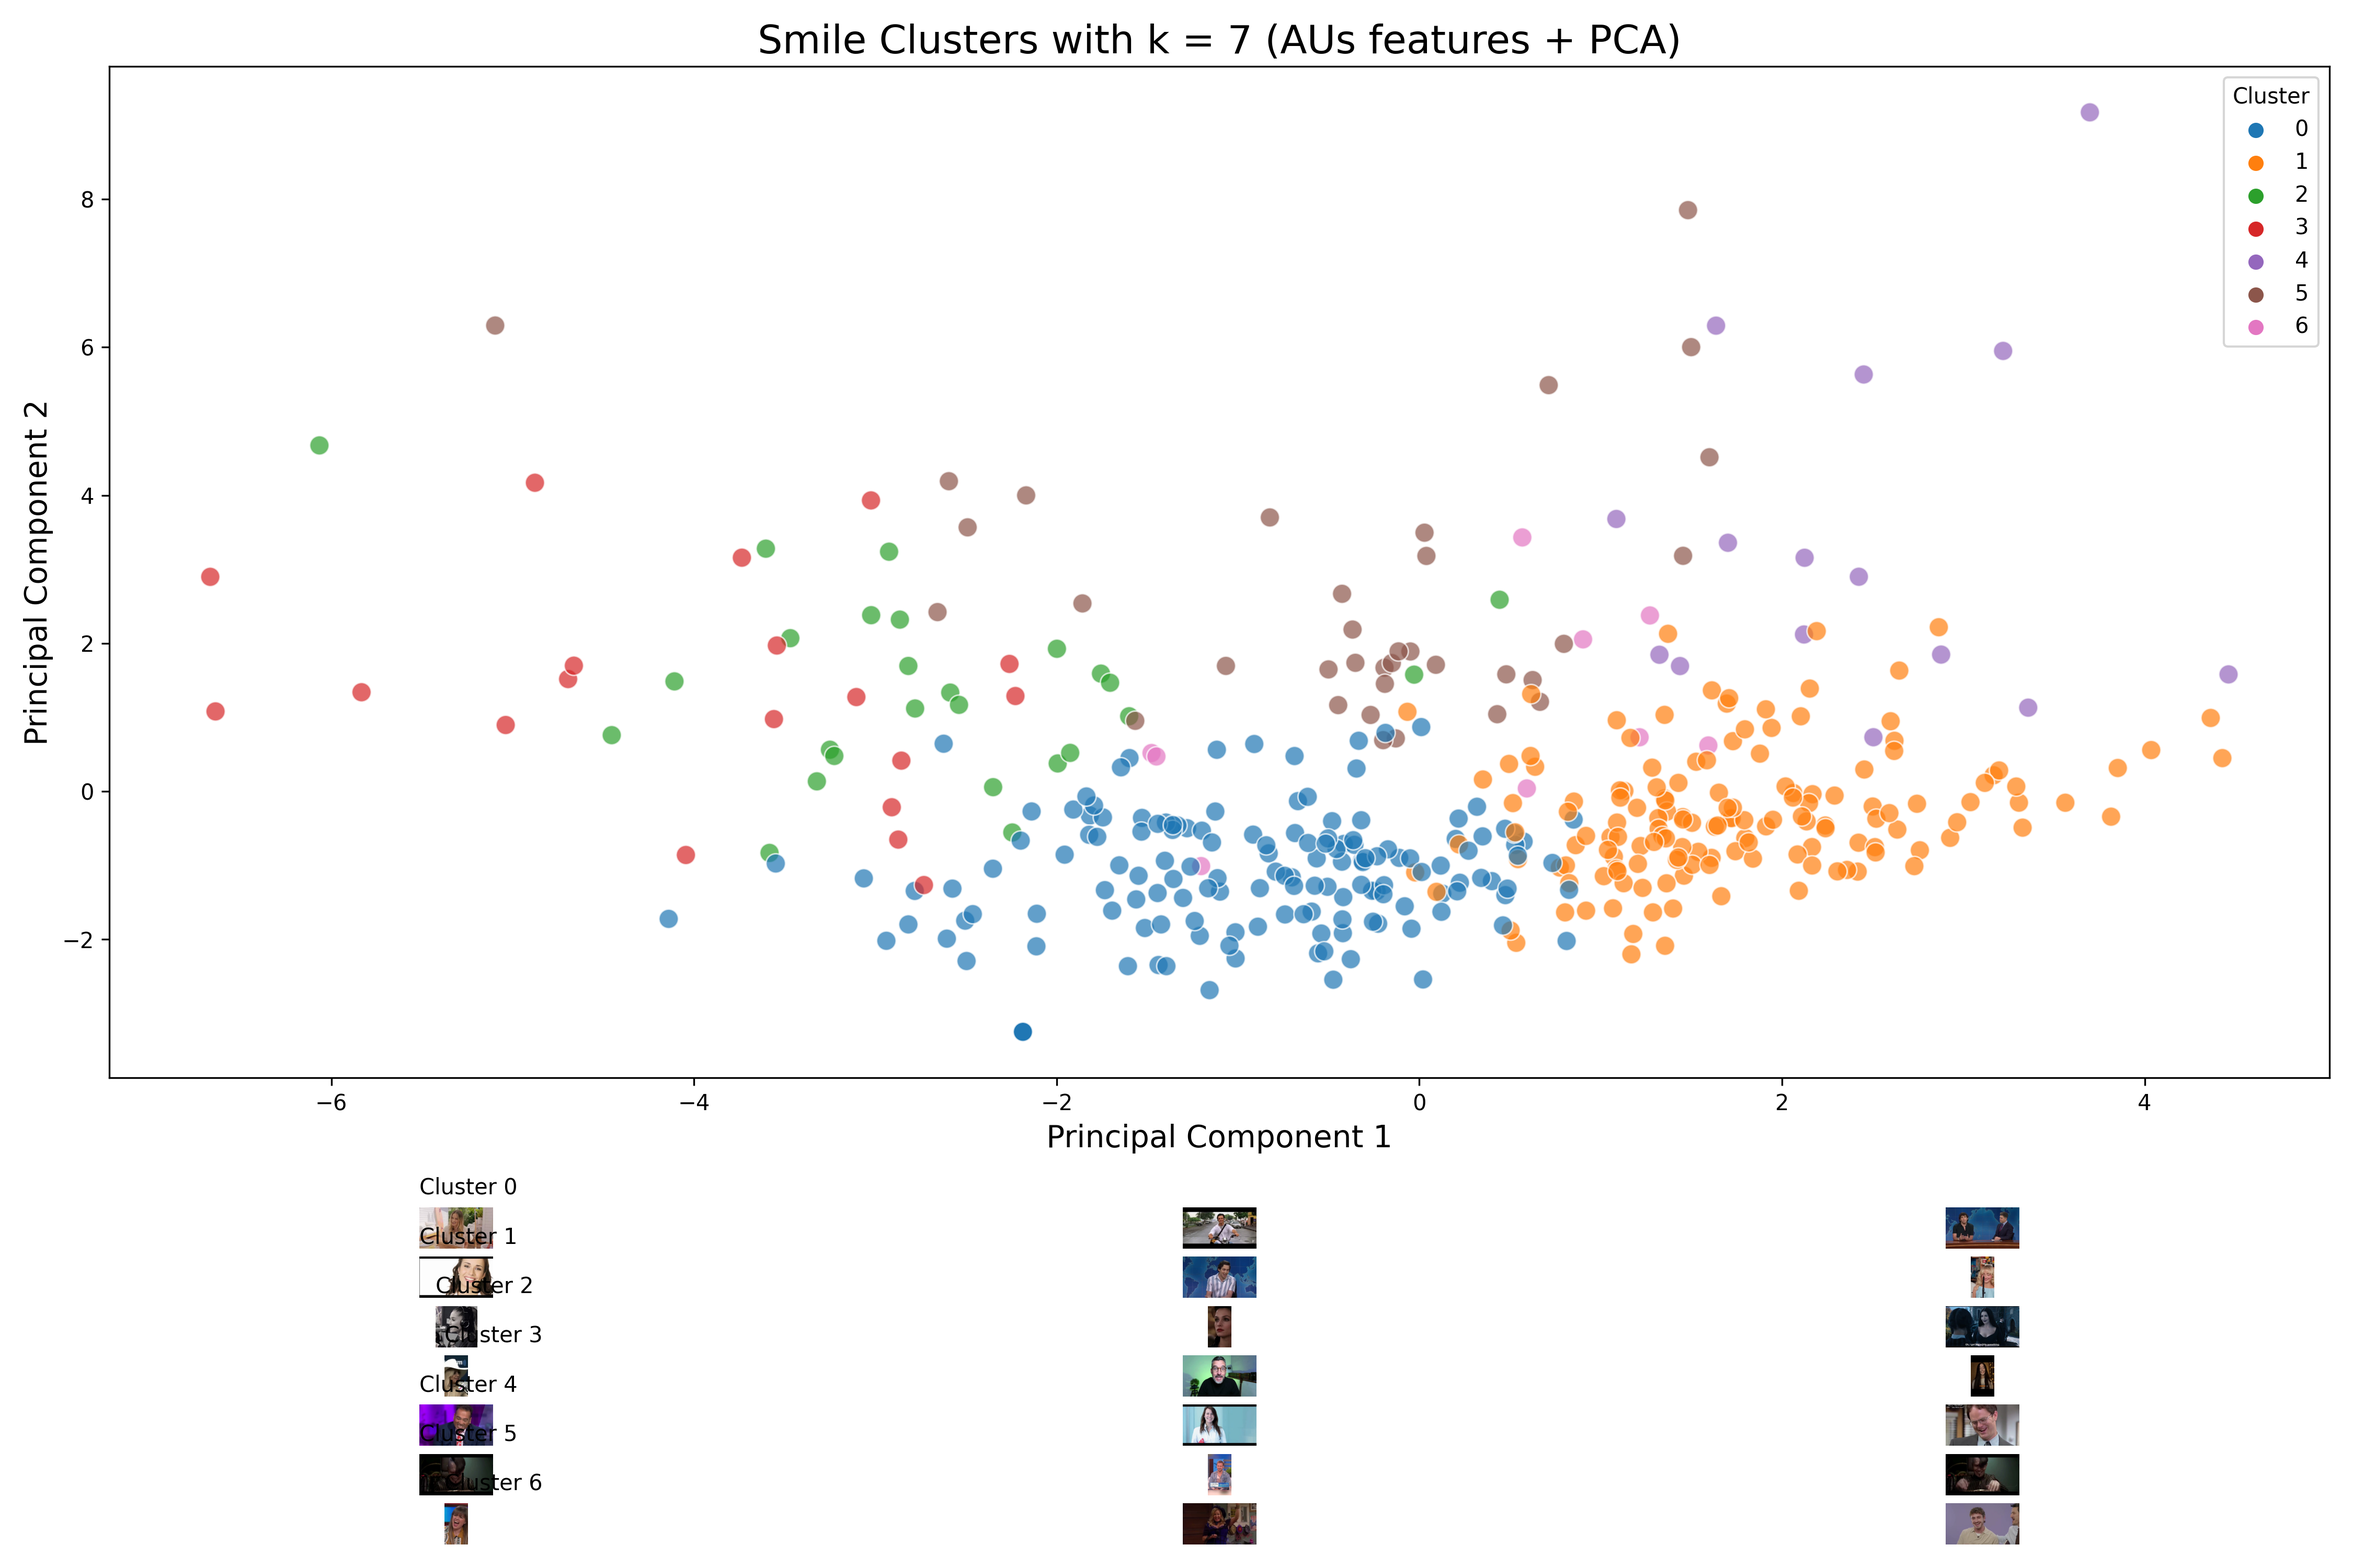
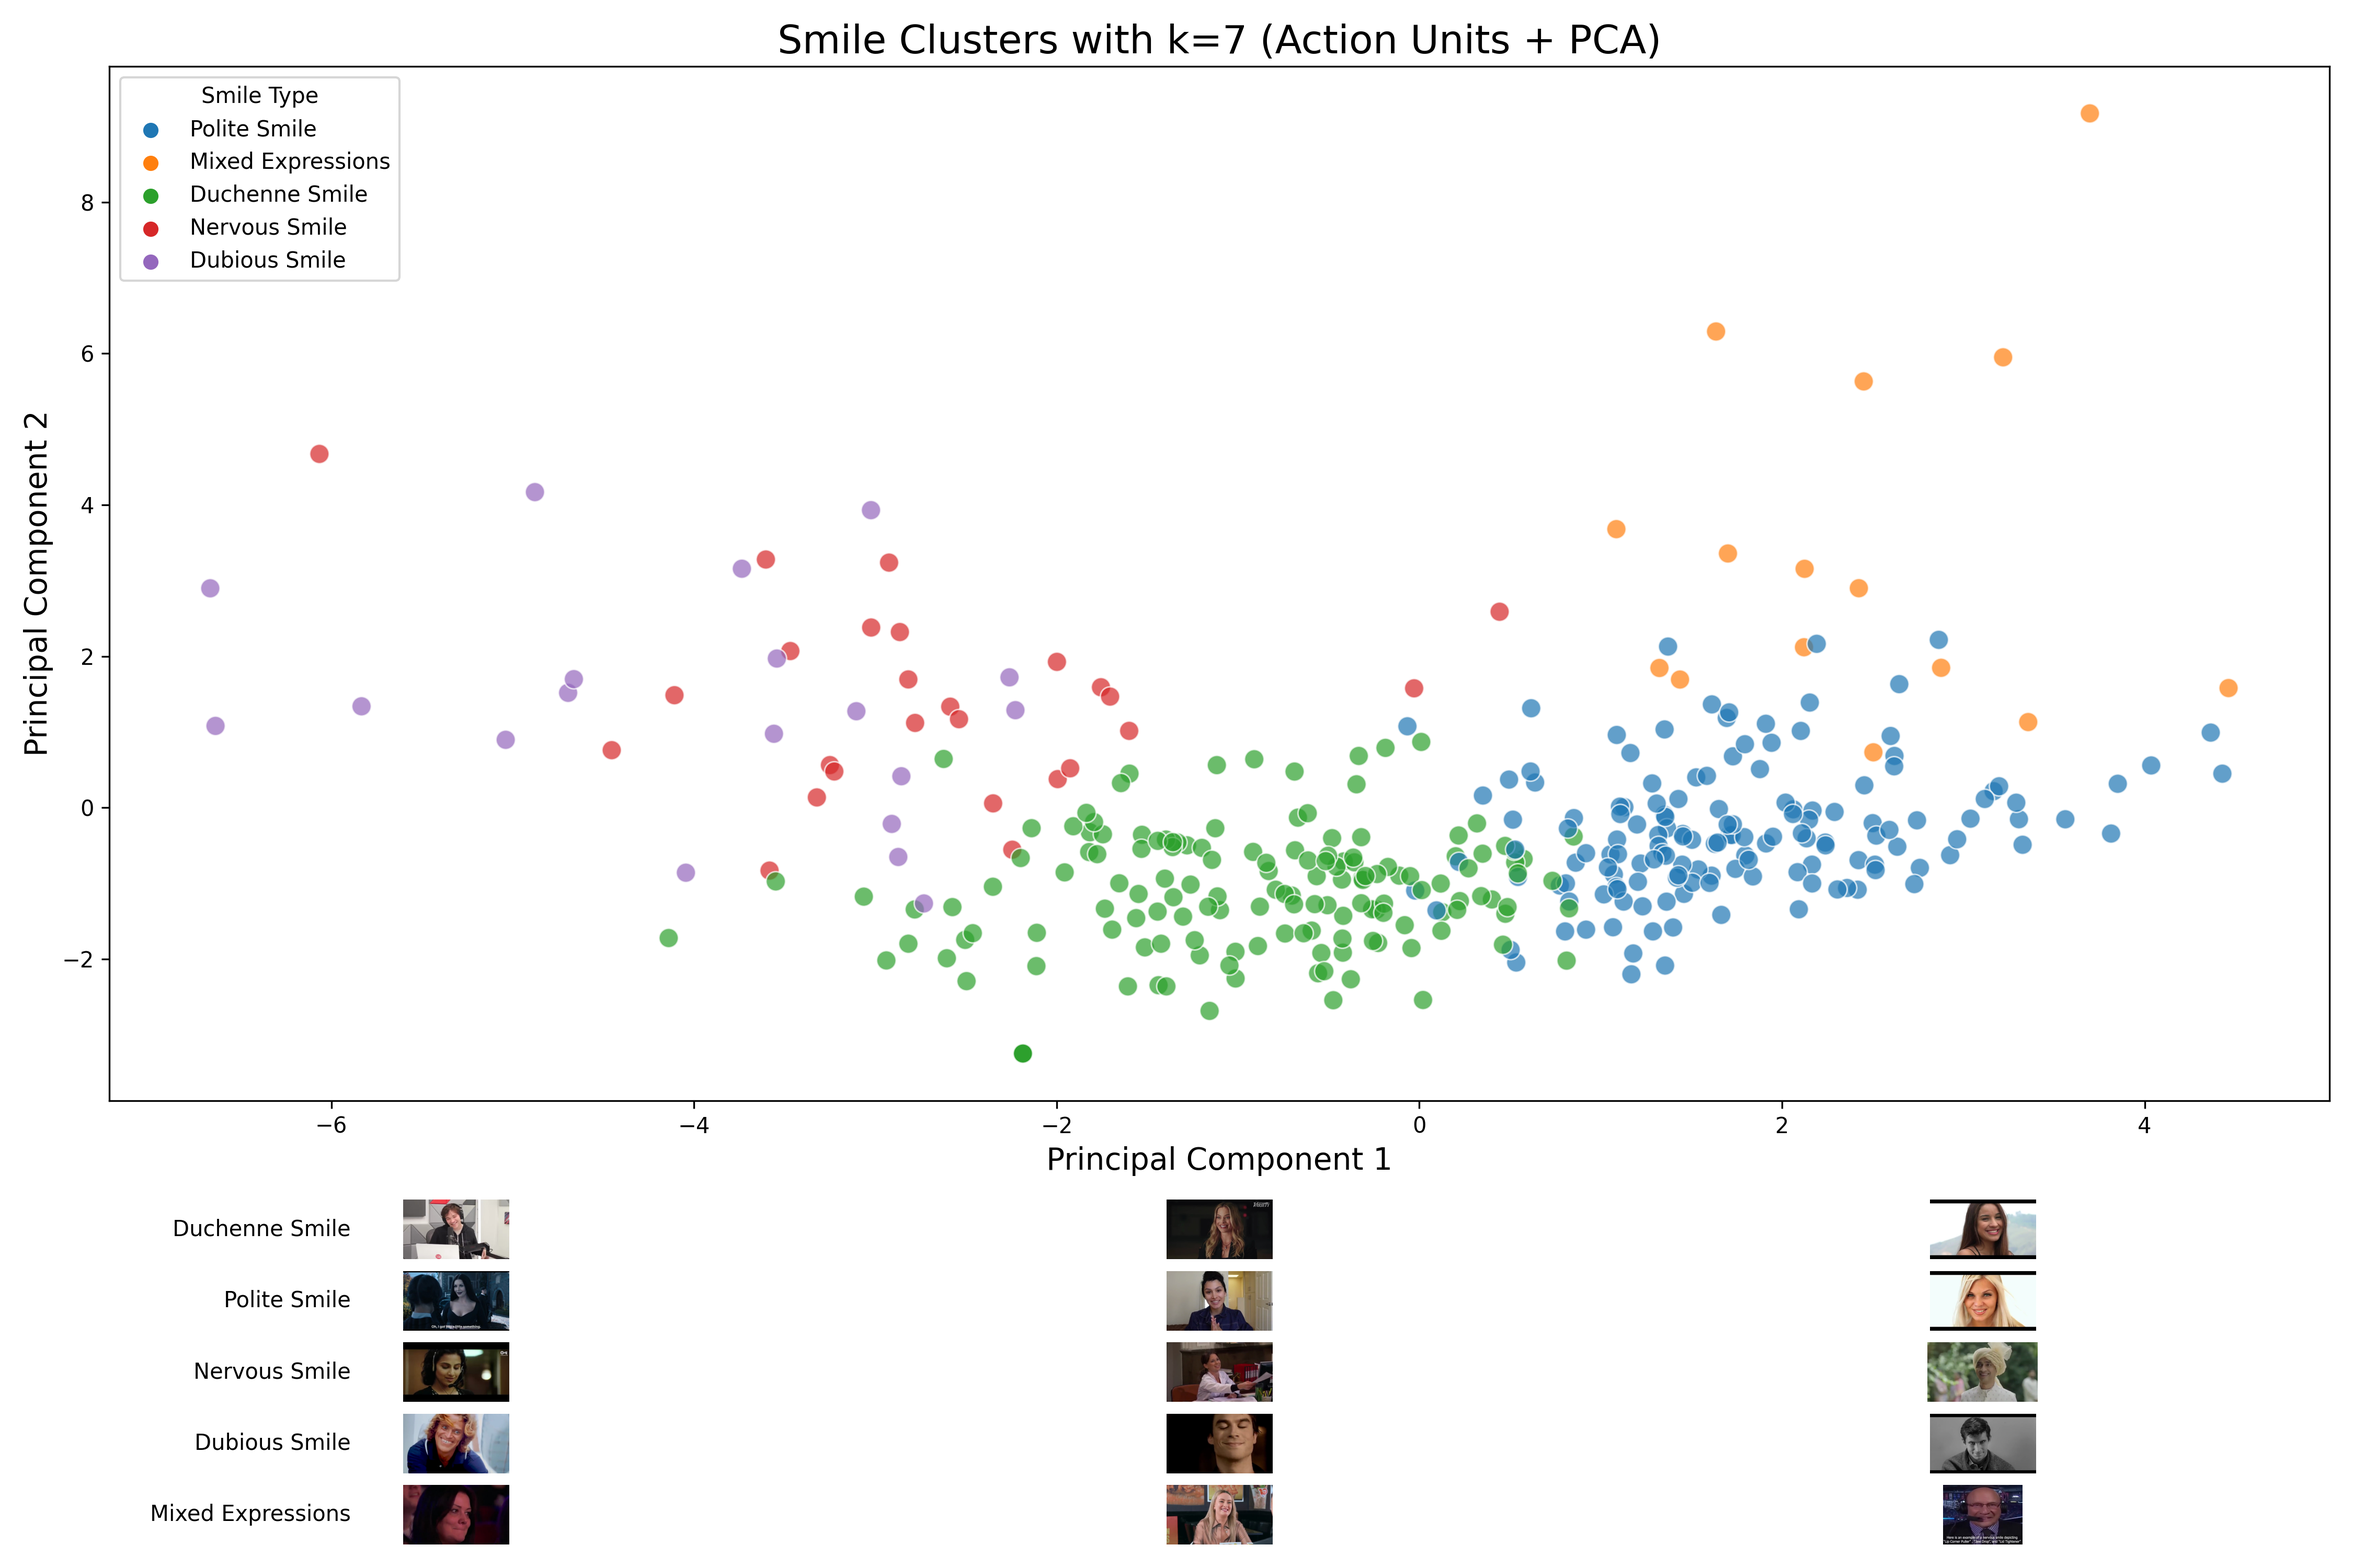
Add cluster labelling and annotation

diff --git a/code/cluster_smiles.py b/code/cluster_smiles.py
@@ -11,6 +11,50 @@ import os
 from PIL import Image
 import glob
 
+def select_representative_images(cluster_interpretations):
+    """
+    Manually select representative images for each cluster.
+    
+    Returns a dictionary with cluster IDs as keys and lists of image filenames as values.
+    """
+    selected_images = {
+        0: [  # Duchenne Smile
+            "anil_clip_026_1.jpg",
+            "asmita_clip_029_1.jpg",
+            "sana_clip_053_2.jpg"
+        ],
+        1: [  # Polite Smile
+            "anil_clip_005_3.jpg",
+            "sana_clip_029_3.jpg",
+            "sana_clip_054_2.jpg"
+        ],
+        2: [  # Nervous Smile
+            "anil_clip_010_3.jpg",
+            "anil_clip_021_1.jpg",
+            "anil_clip_023_1.jpg"
+        ],
+        3: [  # Dubious Smile
+            "asmita_clip_028_1.jpg",
+            "asmita_clip_006_2.jpg",
+            "sana_clip_041_1.jpg"
+        ],
+        4: [  # Mixed Expressions
+            "anil_clip_031_2.jpg",
+            "asmita_clip_003_2.jpg",
+            "anil_clip_033_2.jpg"
+        ]
+    }
+    return selected_images
+
+def get_specific_images(df, selected_images):
+    specific_images = []
+    for cluster_id, image_names in selected_images.items():
+        for image_name in image_names:
+            image_row = df[df['image'] == image_name].copy()
+            image_row['kmeans_cluster'] = cluster_id
+            specific_images.append(image_row)
+    return pd.concat(specific_images)
+
 # Load AU features from openface_output dataset
 df = pd.read_csv("../data/openface_output/smile_frames.csv")
 
@@ -21,7 +65,6 @@ X = df[au_features]
 # Normalize features
 scaler = StandardScaler()
 X_scaled = scaler.fit_transform(X)
-
 
 # Get list of image filenames, sorted alphabetically
 image_files = sorted(glob.glob("../data/smile_frames/*.jpg"))
@@ -77,121 +120,74 @@ X_pca = pca.fit_transform(X_scaled)
 df['pc1'] = X_pca[:, 0]
 df['pc2'] = X_pca[:, 1]
 
-# # Map numeric clusters to meaningful labels
-# cluster_interpretations = {
-#     0: "Genuine/Charming",
-#     1: "Polite/Social",
-#     2: "Nervous/Awkward",
-#     3: "Sarcastic",
-#     4: "Dubious/Evil"
-# }
+# Map numeric clusters to meaningful labels - based on experimental analysis. 
+cluster_interpretations = {
+    0: "Duchenne Smile",
+    1: "Polite Smile",
+    2: "Nervous Smile", 
+    3: "Dubious Smile",
+    4: "Mixed Expressions"
+}
 
-# df['smile_type'] = df['kmeans_cluster'].map(cluster_interpretations)
+df['smile_type'] = df['kmeans_cluster'].map(cluster_interpretations)
 
 # Create a new figure with grid layout
 fig = plt.figure(figsize=(15, 10))
 gs = gridspec.GridSpec(2, 1, height_ratios=[3, 1])
 
-# Top section: the cluster plot
+# Top section: the clustering visualization plot
 ax_top = plt.subplot(gs[0])
+
 sns.scatterplot(
     data=df, 
     x='pc1', 
     y='pc2', 
-    hue='kmeans_cluster',
+    hue='smile_type',
     palette='tab10',
     s=80,
     alpha=0.7,
     ax=ax_top
 )
-# ax_top.set_title("Smile Types Identified by Clustering", fontsize=18)
-ax_top.set_title("Smile Clusters with k = 7 (AUs features + PCA)", fontsize=18)
+
+ax_top.set_title("Smile Clusters with k=7 (Action Units + PCA)", fontsize=18)
 ax_top.set_xlabel("Principal Component 1", fontsize=14)
 ax_top.set_ylabel("Principal Component 2", fontsize=14)
-ax_top.legend(title="Cluster", fontsize=10)
+ax_top.legend(title="Smile Type", fontsize=10)
 
-# === Example Image per Cluster ===
-ax_bottom = plt.subplot(gs[1])
-ax_bottom.axis("off")
-img_grid = gridspec.GridSpecFromSubplotSpec(k, 3, subplot_spec=gs[1], wspace=0.1)
+# Example Image per Cluster
+plt.subplot(gs[1])
+plt.axis("off")
+img_grid = gridspec.GridSpecFromSubplotSpec(len(cluster_interpretations), 3, subplot_spec=gs[1], wspace=0.1, hspace=0.2)
 
 # Sample 3 images per cluster
-example_images = (
-    df.groupby("kmeans_cluster")
-    .apply(lambda g: g.sample(3, random_state=42))
-    .reset_index(drop=True)
-)
+selected_images = select_representative_images(cluster_interpretations)
+example_images = get_specific_images(df, selected_images)
 
-for i, row in example_images.iterrows():
-    cluster_id = int(row["kmeans_cluster"])
-    col = i % 3  # 0, 1, 2
-    ax_img = plt.subplot(img_grid[cluster_id, col])
-    img_path = os.path.join("../data/smile_frames", row["image"])
-    try:
-        img = Image.open(img_path)
-        ax_img.imshow(np.array(img))
+for cluster_id, smile_type in cluster_interpretations.items():
+    # Filter images for this specific cluster
+    cluster_images = example_images[example_images['kmeans_cluster'] == cluster_id]
+    
+    for col in range(3):
+        ax_img = plt.subplot(img_grid[cluster_id, col])
+        
+        if col < len(cluster_images):
+            row = cluster_images.iloc[col]
+            img_path = os.path.join("../data/smile_frames", row["image"])
+            try:
+                img = Image.open(img_path)
+                ax_img.imshow(np.array(img))
+            except Exception as e:
+                print(f"Error loading {img_path}: {e}")
+                ax_img.text(0.5, 0.5, "Image Not Found", ha="center", va="center")
+        
+        ax_img.axis("off")
+        
+        # Add cluster label
         if col == 0:
-            ax_img.set_title(f"Cluster {cluster_id}", fontsize=10, loc='left')
-    except Exception as e:
-        print(f"Error loading {img_path}: {e}")
-        ax_img.text(0.5, 0.5, f"Cluster {cluster_id}", ha="center", va="center")
-    ax_img.axis("off")
+            ax_img.text(-0.5, 0.5, smile_type, transform=ax_img.transAxes, 
+                        ha='right', va='center', fontsize=10)
 
 # Save visualizations in figures/
 plt.tight_layout()
 plt.savefig("../figures/clusters_k7_visualization.png", dpi=300)
 print("Visualization saved to ../figures/clusters_k7_visualization.png")
-
-# # Create a legend that maps clusters to interpretations
-# legend_elements = []
-# for i, (cluster_id, smile_type) in enumerate(cluster_interpretations.items()):
-#     color = plt.cm.tab10(i)
-#     legend_elements.append(plt.Line2D([0], [0], marker='o', color='w', 
-#                           label=f"Cluster {cluster_id}: {smile_type}",
-#                           markerfacecolor=color, markersize=10))
-
-# # Add the interpretation legend
-# ax_top.legend(handles=legend_elements, title="Interpreted Clusters", 
-#               loc="upper right", fontsize=10)
-
-# # Bottom section: example images from each cluster
-# ax_bottom = plt.subplot(gs[1])
-# ax_bottom.axis('off')  # Hide axes for the image section
-
-# # Create a grid for the images
-# img_grid = gridspec.GridSpecFromSubplotSpec(1, 5, subplot_spec=gs[1], wspace=0.1)
-
-# # Get all image files from smile_frames directory
-# image_files = glob.glob("../data/smile_frames/*.jpg") + glob.glob("../data/smile_frames/*.png")
-
-# # Manually select one example image for each cluster type
-# example_images = {
-#     0: image_files[0] if len(image_files) > 0 else None,    # Genuine/Charming
-#     1: image_files[1] if len(image_files) > 1 else None,    # Polite/Social
-#     2: image_files[2] if len(image_files) > 2 else None,    # Nervous/Awkward
-#     3: image_files[3] if len(image_files) > 3 else None,    # Sarcastic
-#     4: image_files[4] if len(image_files) > 4 else None,    # Dubious/Evil
-# }
-
-# # Display images or labels
-# for i, cluster_id in enumerate(range(5)):
-#     ax_img = plt.subplot(img_grid[i])
-    
-#     if cluster_id in example_images and example_images[cluster_id] is not None:
-#         try:
-#             img = Image.open(example_images[cluster_id])
-#             ax_img.imshow(np.array(img))
-#             ax_img.set_title(f"{cluster_interpretations[cluster_id]}", fontsize=12)
-#         except Exception as e:
-#             print(f"Error loading image for cluster {cluster_id}: {e}")
-#             ax_img.text(0.5, 0.5, cluster_interpretations[cluster_id], 
-#                         ha='center', va='center', fontsize=12)
-#     else:
-#         ax_img.text(0.5, 0.5, cluster_interpretations[cluster_id], 
-#                    ha='center', va='center', fontsize=12)
-#     ax_img.axis('off')
-
-# plt.tight_layout()
-# plt.savefig("../figures/clusters_with_examples.png", dpi=300, bbox_inches='tight')
-# print("Visualization saved to ../figures/clusters_with_examples.png")
-# print(f"Found {len(image_files)} image files in smile_frames directory")

diff --git a/code/dummy_organize_clusters.py b/code/dummy_organize_clusters.py
@@ -1,0 +1,51 @@
+#this file is for experimentation purposes to study the clustering performance and seggregate images by cluster properties.
+import pandas as pd
+import os
+import shutil
+import glob
+
+# Load the clustered data
+df = pd.read_csv("../data/smile_clusters.csv")
+print("Unique cluster values:", df['kmeans_cluster'].unique())
+
+# Create directories for each cluster
+clusters = sorted(df['kmeans_cluster'].unique())
+n_clusters = len(clusters)
+for cluster_id in clusters:
+    os.makedirs(f"../data/cluster_review/{int(cluster_id)}", exist_ok=True)
+
+# Find all image files
+print("Looking for image files in ../data/smile_frames/")
+image_files = glob.glob("../data/smile_frames/*.jpg") + glob.glob("../data/smile_frames/*.png")
+print(f"Found {len(image_files)} image files")
+
+# Divide the images roughly equally among the clusters
+images_per_cluster = len(image_files) // n_clusters
+remainder = len(image_files) % n_clusters
+
+cluster_counts = {cluster_id: 0 for cluster_id in clusters}
+
+for i, img_path in enumerate(image_files):
+    filename = os.path.basename(img_path)
+    
+    # Determine which cluster to assign this image to
+    cluster_idx = i // images_per_cluster
+    if cluster_idx >= n_clusters:
+        cluster_idx = n_clusters - 1
+    cluster_id = clusters[cluster_idx]
+    
+    # Copy the image to the appropriate cluster directory
+    dst_path = os.path.join(f"../data/cluster_review/{int(cluster_id)}", filename)
+    try:
+        shutil.copy2(img_path, dst_path)
+        cluster_counts[cluster_id] += 1
+        print(f"Copied {filename} to cluster {int(cluster_id)}")
+    except Exception as e:
+        print(f"Error copying {filename}: {e}")
+
+print("\nImages distributed per cluster:")
+for cluster_id, count in cluster_counts.items():
+    print(f"Cluster {int(cluster_id)}: {count} images")
+
+print(f"\nDistributed {len(image_files)} images across {n_clusters} clusters")
+print("Finished organizing images by cluster")
